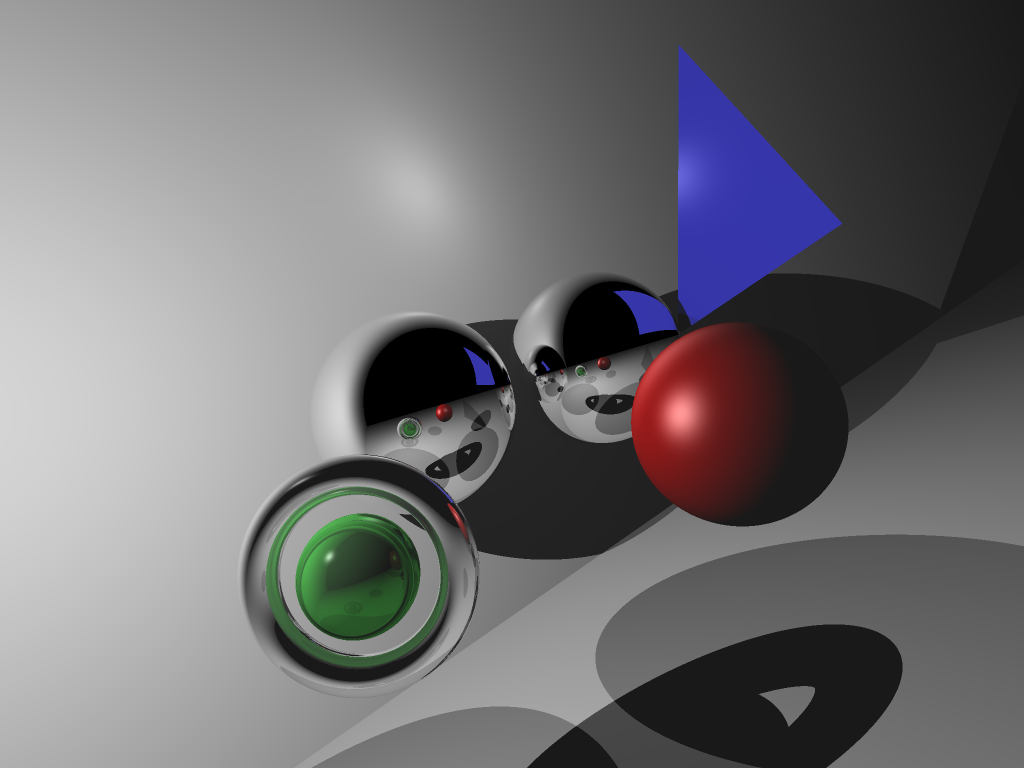
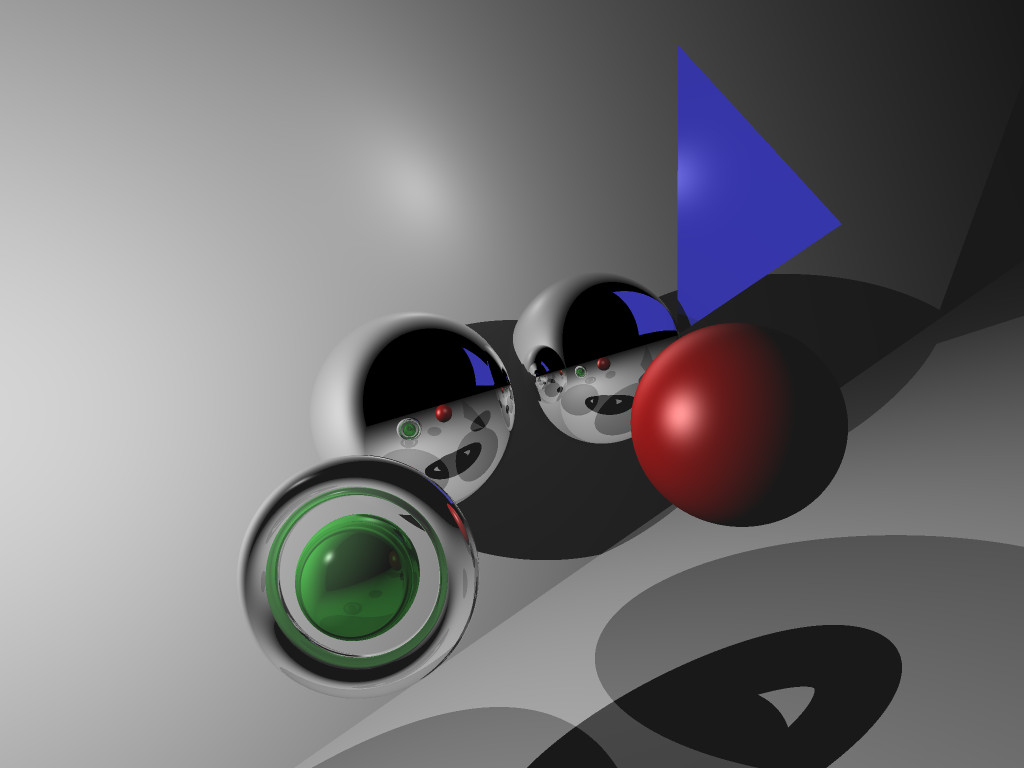
Fix SSAA grid

diff --git a/src/Camera.h b/src/Camera.h
@@ -73,9 +73,9 @@ public:
                 auto get_direction = [&]() { return normalize(look_at - m_eye); };
 
                 auto color = compute_ray_color(scene, { look_at = get_look_at(.25, .25), get_direction() }, 0., std::numeric_limits<double>::infinity(), 0)
-                             + compute_ray_color(scene, { look_at = get_look_at(.25, -.25), get_direction() }, 0., std::numeric_limits<double>::infinity(), 0)
-                             + compute_ray_color(scene, { look_at = get_look_at(-.25, -.25), get_direction() }, 0., std::numeric_limits<double>::infinity(), 0)
-                             + compute_ray_color(scene, { look_at = get_look_at(-.25, .25), get_direction() }, 0., std::numeric_limits<double>::infinity(), 0);
+                             + compute_ray_color(scene, { look_at = get_look_at(.25, .75), get_direction() }, 0., std::numeric_limits<double>::infinity(), 0)
+                             + compute_ray_color(scene, { look_at = get_look_at(.75, .25), get_direction() }, 0., std::numeric_limits<double>::infinity(), 0)
+                             + compute_ray_color(scene, { look_at = get_look_at(.75, .75), get_direction() }, 0., std::numeric_limits<double>::infinity(), 0);
 
                 color /= 4.;
 #else
